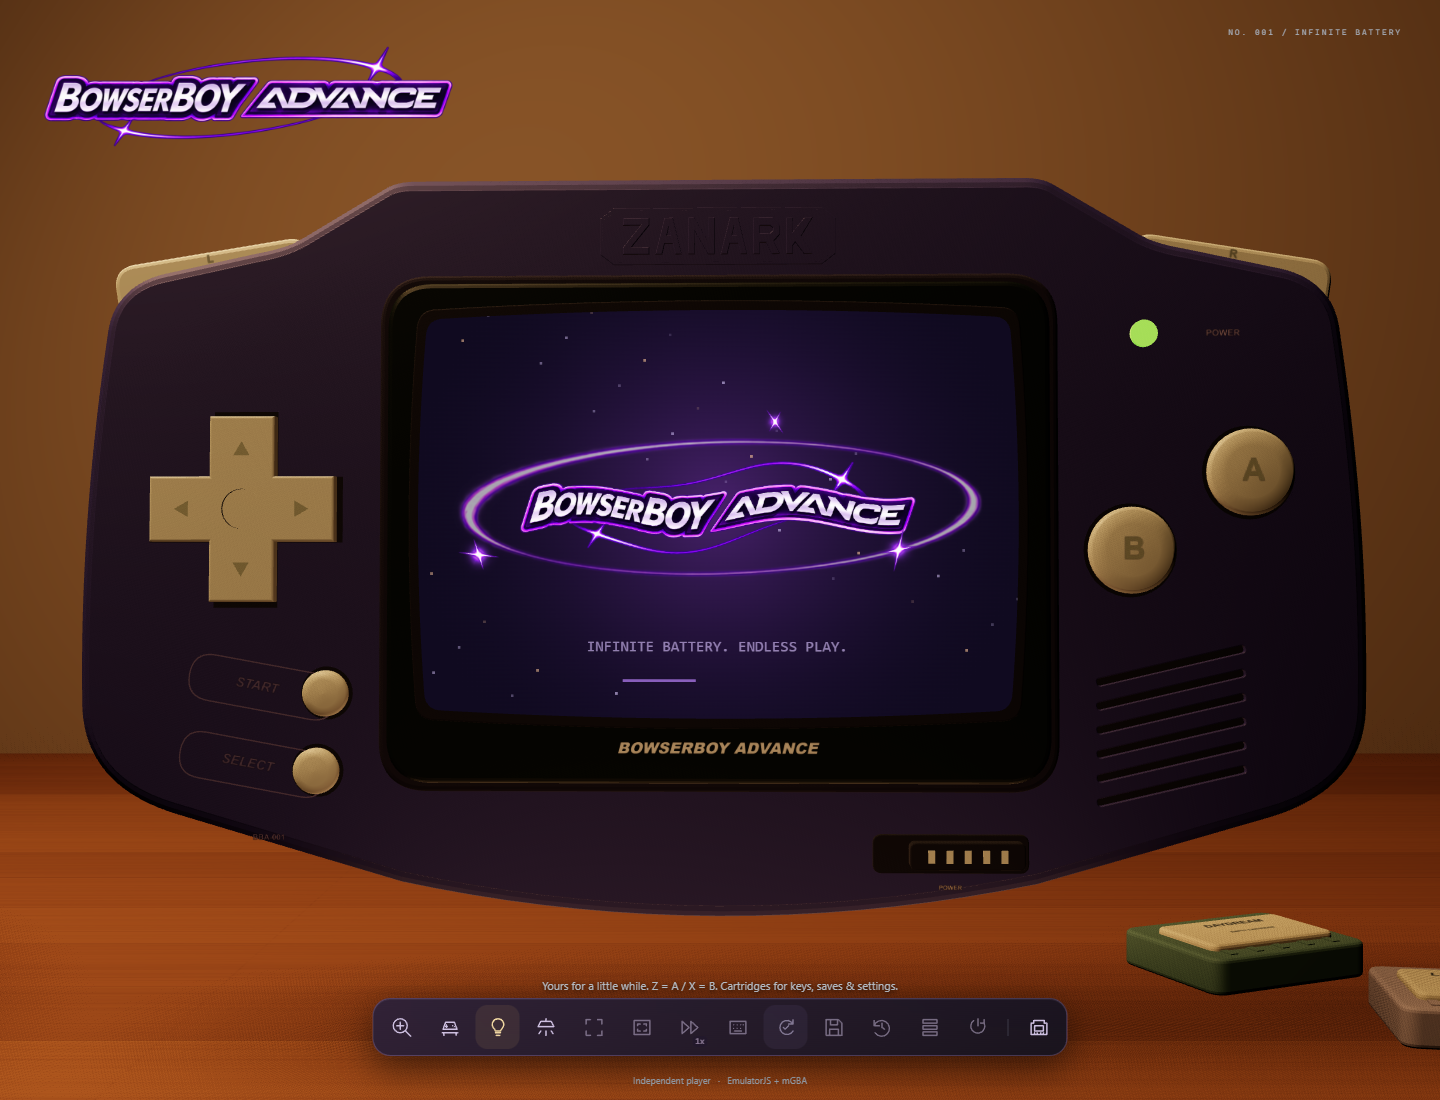
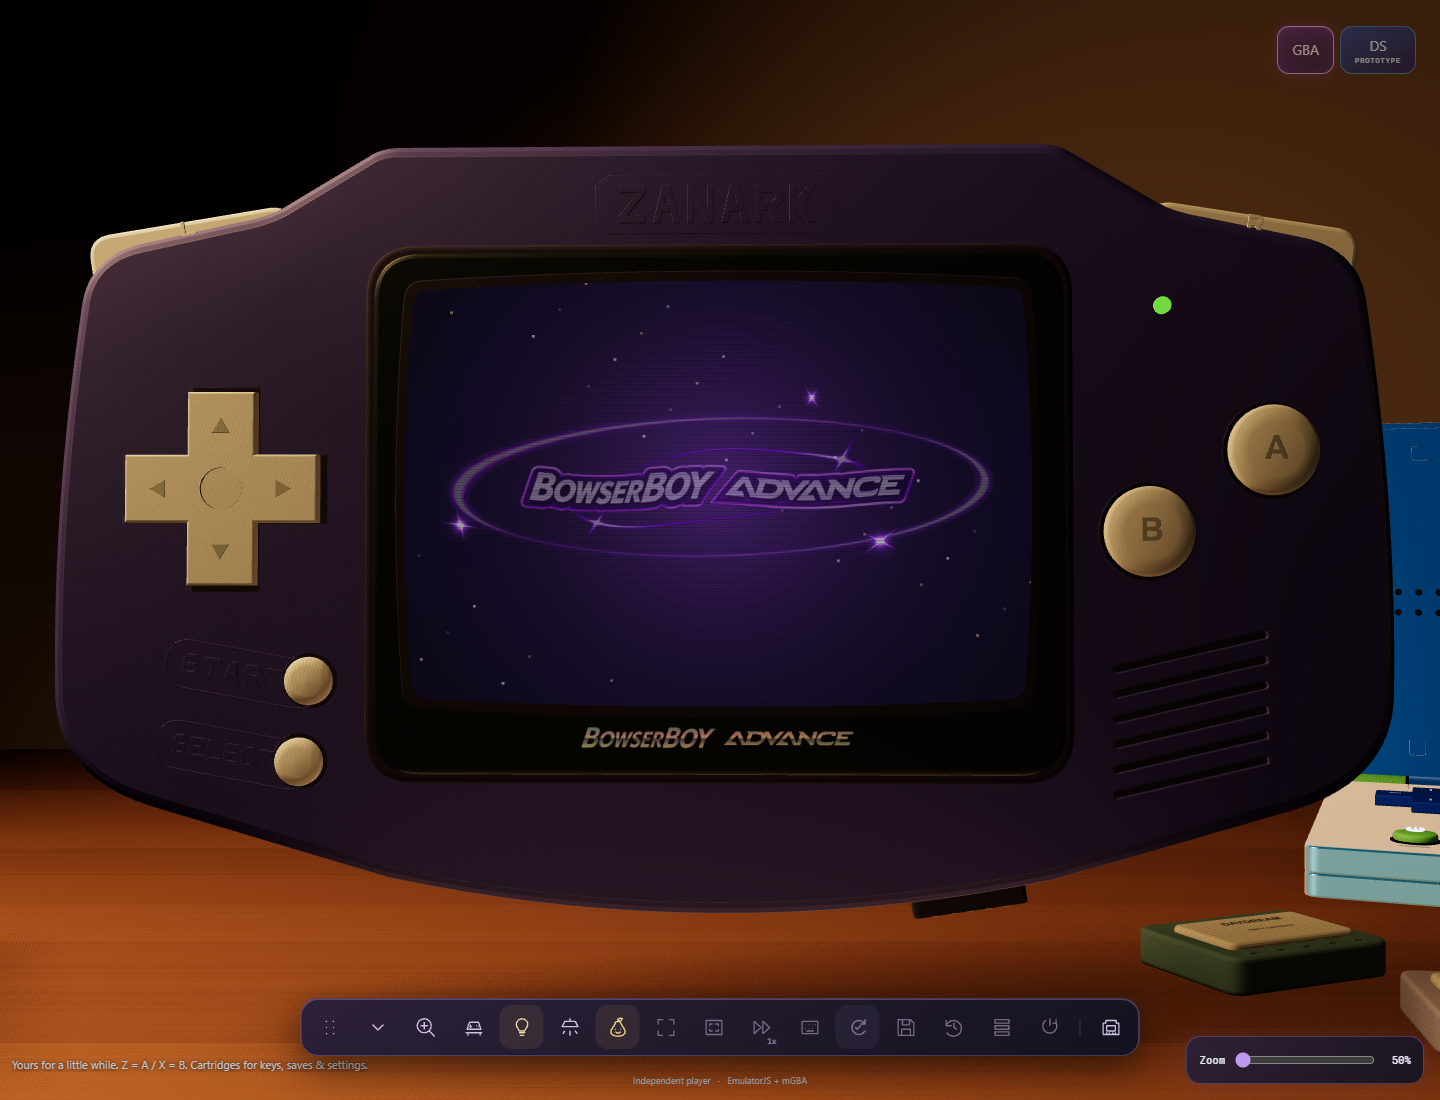
feat: add cached CRT for built-in LCD screens
Bake scanlines, phosphors and soft corners into startup and status canvases.
Keep native EmulatorJS filters authoritative with no added game-frame work.

Copilot-Session: 8e7d69ac-78f7-4310-8b8d-14bf8681a509

diff --git a/src/lcd-crt.js b/src/lcd-crt.js
@@ -1,0 +1,39 @@
+const effects = new WeakMap();
+
+export function drawLcdCrt(context, rows = 160) {
+  const { canvas } = context;
+  const { width, height } = canvas;
+  let effect = effects.get(canvas);
+  if (!effect || effect.width !== width || effect.height !== height || effect.rows !== rows) {
+    const tile = document.createElement('canvas');
+    tile.width = 3;
+    tile.height = Math.max(2, Math.round(height / rows));
+    const mask = tile.getContext('2d');
+    if (!mask) throw new Error('The built-in CRT screen requires a 2D canvas.');
+    for (const [x, color] of ['#fff7f7', '#f7fff7', '#f7f7ff'].entries()) {
+      mask.fillStyle = color;
+      mask.fillRect(x, 0, 1, tile.height);
+    }
+    mask.fillStyle = '#0003';
+    mask.fillRect(0, tile.height - 1, tile.width, 1);
+    const pattern = context.createPattern(tile, 'repeat');
+    if (!pattern) throw new Error('The built-in CRT screen mask could not be created.');
+    const vignette = context.createRadialGradient(width / 2, height / 2, height * .2,
+      width / 2, height / 2, Math.hypot(width / 2, height / 2));
+    vignette.addColorStop(0, '#0000');
+    vignette.addColorStop(.6, '#0000');
+    vignette.addColorStop(1, '#0003');
+    effect = { width, height, rows, pattern, vignette };
+    effects.set(canvas, effect);
+  }
+  context.save();
+  context.setTransform(1, 0, 0, 1, 0, 0);
+  context.globalAlpha = 1;
+  context.globalCompositeOperation = 'multiply';
+  context.fillStyle = effect.pattern;
+  context.fillRect(0, 0, width, height);
+  context.globalCompositeOperation = 'source-over';
+  context.fillStyle = effect.vignette;
+  context.fillRect(0, 0, width, height);
+  context.restore();
+}

diff --git a/src/ds-controller.js b/src/ds-controller.js
@@ -5,6 +5,7 @@ import { bindKeyboard } from './keyboard.js';
 import { canvasTexture } from './handheld.js';
 import { DsSaveStore } from './ds-store.js';
 import { playDsStartupSound } from './startup.js';
+import { drawLcdCrt } from './lcd-crt.js';
 
 const $ = id => document.getElementById(id);
 
@@ -285,6 +286,7 @@ export class DsController {
           ctx.font = 'bold 26px monospace'; ctx.fillText(index ? title : 'BOWSERBOY DS', w / 2, 165, w - 24);
           ctx.fillStyle = '#8ed6e0'; ctx.font = '17px monospace'; ctx.fillText(index ? detail : 'TWO SCREENS. ONE LITTLE ESCAPE.', w / 2, 215, w - 24);
         }
+        drawLcdCrt(ctx, 192);
       });
       screen.material.map?.dispose(); screen.material.dispose();
       screen.material = new THREE.MeshBasicMaterial({ map, toneMapped: false });

diff --git a/src/scene.js b/src/scene.js
@@ -8,6 +8,7 @@ import { createDsHandheld } from './ds-handheld.js';
 import { createPearBoy } from './pear-boy.js';
 import { DeskMotion, PearMotion } from './pear-motion.js';
 import { nearestDeskPosition } from './desk-clearance.js';
+import { drawLcdCrt } from './lcd-crt.js';
 
 const tableQuaternion = new THREE.Quaternion().setFromEuler(new THREE.Euler(-Math.PI / 2, 0, -.2));
 const playQuaternion = new THREE.Quaternion().setFromEuler(new THREE.Euler(-.035, -.025, 0));
@@ -1011,6 +1012,7 @@ export class HandheldScene {
       context.fillText(title, width / 2, 324, width - 40);
       context.font = '16px monospace';
       context.fillText(detail, width / 2, 367, width - 40);
+      drawLcdCrt(context);
     });
     this.setDisplay(new THREE.MeshBasicMaterial({ map, toneMapped: false }));
   }

diff --git a/src/startup.js b/src/startup.js
@@ -1,4 +1,5 @@
 import { brandImage, starImage, orbitImage, glowImage, loadBrand } from './brand.js';
+import { drawLcdCrt } from './lcd-crt.js';
 
 export const STARTUP_DURATION = 3200;
 
@@ -71,6 +72,7 @@ export function drawStartup(canvas, elapsed, reducedMotion = false) {
   context.fillRect(83, 145, reducedMotion ? 74 : 74 * Math.min(1, elapsed / STARTUP_DURATION), 1);
   context.globalAlpha = 1;
   context.restore();
+  drawLcdCrt(context);
 }
 export async function playStartup(view) {
   await loadBrand();

diff --git a/docs/VERIFICATION.md b/docs/VERIFICATION.md
@@ -9,6 +9,36 @@ record or constitute fresh execution of historical tests.
 
 ## Current follow-up and manual-release status, 2026-11-07
 
+### Pre-cartridge CRT: local qualification, publication pending
+
+The built-in startup and GBA/DS status canvases now bake a cached RGB
+phosphor/scanline mask and soft vignette into existing drawing. Two bounded
+fills add placeholder drawing cost; there is no additional animation,
+room render pass, pixel readback or per-game-frame processing. Native
+framebuffer replacement removes the complete baked placeholder.
+
+The existing startup and native CRT cases pass Edge33.1s and explicitly
+verified ANGLE SwiftShader71.441s at1440x1100, original deadlines/retries0.
+Expanded startup assertions pass Edge18.6s/software32.990s: actual startup
+scanline contrast5.306, idle3.667, exactly one pattern per canvas, and idle
+texture version1 unchanged. Neutral-gray pixels verify separate RGB columns
+and shaded corners; caller alpha/composite restoration and one cache
+replacement after resizing also pass. Calling the actual DS status method
+on a disposable two-screen fixture gives contrast5.444each at192logical
+rows. This fixture is not a native DS gameplay qualification.
+
+All nine actual native presets retain direct native-canvas texture identity.
+Unfiltered produces a flat native background, without a second host effect.
+The final generated startup capture was visually reviewed. Syntax,56units,
+build and whitespace pass;97cases/19shards and all release gates remain.
+The frozen published PDF remains unchanged.
+
+The preceding `6b5d2c552e6b3206bfb3ae36d845896773147a1c` run,
+[Pages42342237115](https://github.com/Zanark/BowserBoy/actions/runs/42342237115),
+finishes **failure:87passed/10failed**, deployment skipped. Nine DS cases
+and one Pear case remain unresolved; CRT styling does not claim to fix them.
+Current-source hosted qualification and owner visual acceptance remain open.
+
 ### Exact boundary restoration; DS software latency remains open
 
 Corrective `120d9bd5a3e785d24a9bdc5e96d6e9b332613510`,

diff --git a/docs/ARCHITECTURE.md b/docs/ARCHITECTURE.md
@@ -512,6 +512,18 @@ and legacy default. Advanced native selections synchronize with existing options
 while non-CRT native selections retain the separate read-only indicator.
 Missing shader resources
 fail explicitly rather than quietly substituting another CRT effect.
+
+Built-in startup and idle/loading canvases have a separate, baked treatment
+from `src/lcd-crt.js`: a tiny RGB phosphor/scanline tile and soft radial
+vignette, cached per canvas in a `WeakMap`. Two canvas fills run only when
+that built-in content is drawn; there is no added timer, noise animation,
+pixel readback or room postprocessing pass. Startup reuses its mask and
+gradient; idle status screens stay static. GBA uses 160 logical rows and DS
+status LCDs use 192. `setScreen` replaces the complete GBA texture with the
+native framebuffer; DS replaces its status textures with native-copy targets.
+Neither gameplay path calls the treatment, so native CRT presets (or
+Unfiltered) never receive a second host filter.
+
 The core canvas normally uses `preserveDrawingBuffer: false`; an actual probe
 produced all-black texture copies despite a working on-screen core. The adapter
 therefore disables native auto-start, waits for `EJS_ready`, wraps only that

diff --git a/docs/GUIDE.md b/docs/GUIDE.md
@@ -553,6 +553,11 @@ CSS imitation. **Screen shader** offers all nine native CRT presets:
 Geom (default), Aperture, Beam, Caligari, Easymode, Lottes, Mattias, Yeetron
 and ZFast, plus **Unfiltered**. Choices apply without restarting the game and
 are remembered; an explicit saved choice is not overwritten by the default.
+Before a game supplies video, the built-in startup and empty/loading LCDs
+have their own subtle scanlines, phosphor texture and edge shading. This
+static treatment is baked into those placeholder images and disappears
+with them when EmulatorJS takes over; it never stacks with your chosen
+native filter, including **Unfiltered**.
 Click a key binding and press its
 replacement; duplicate assignments and reserved browser keys are rejected.
 Keys, sound and filter settings persist in checked local browser storage; failed writes
